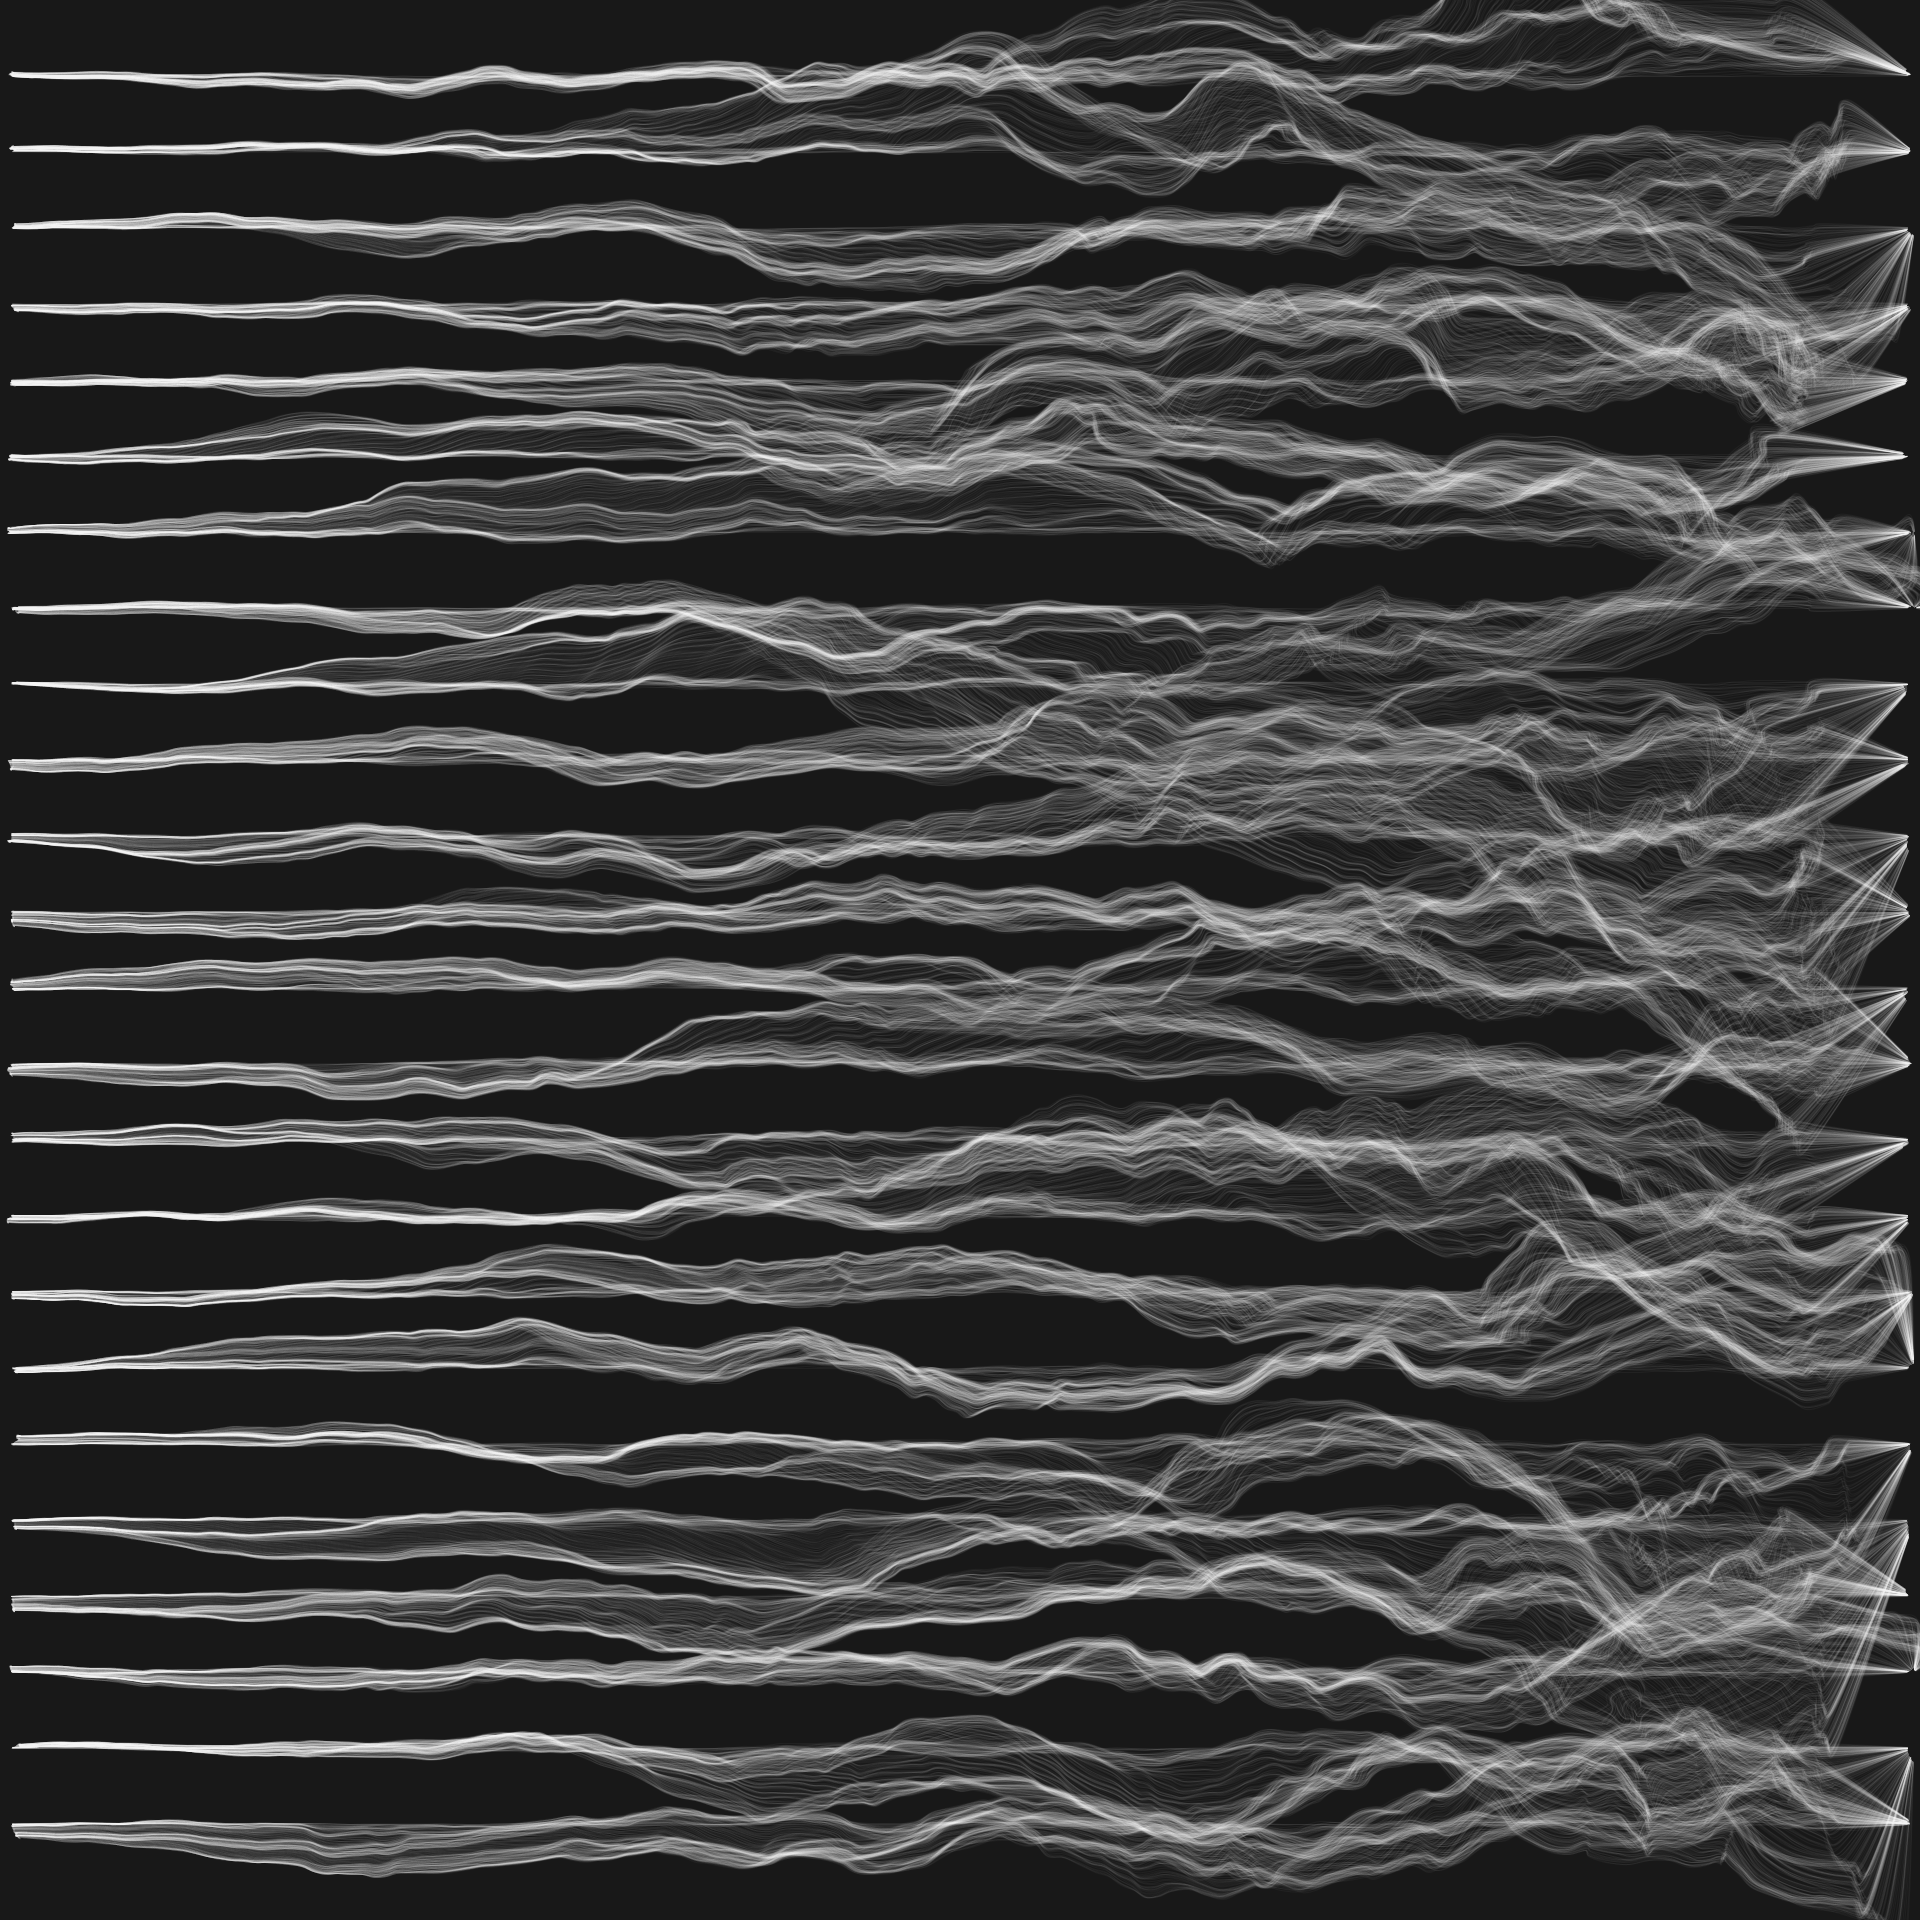
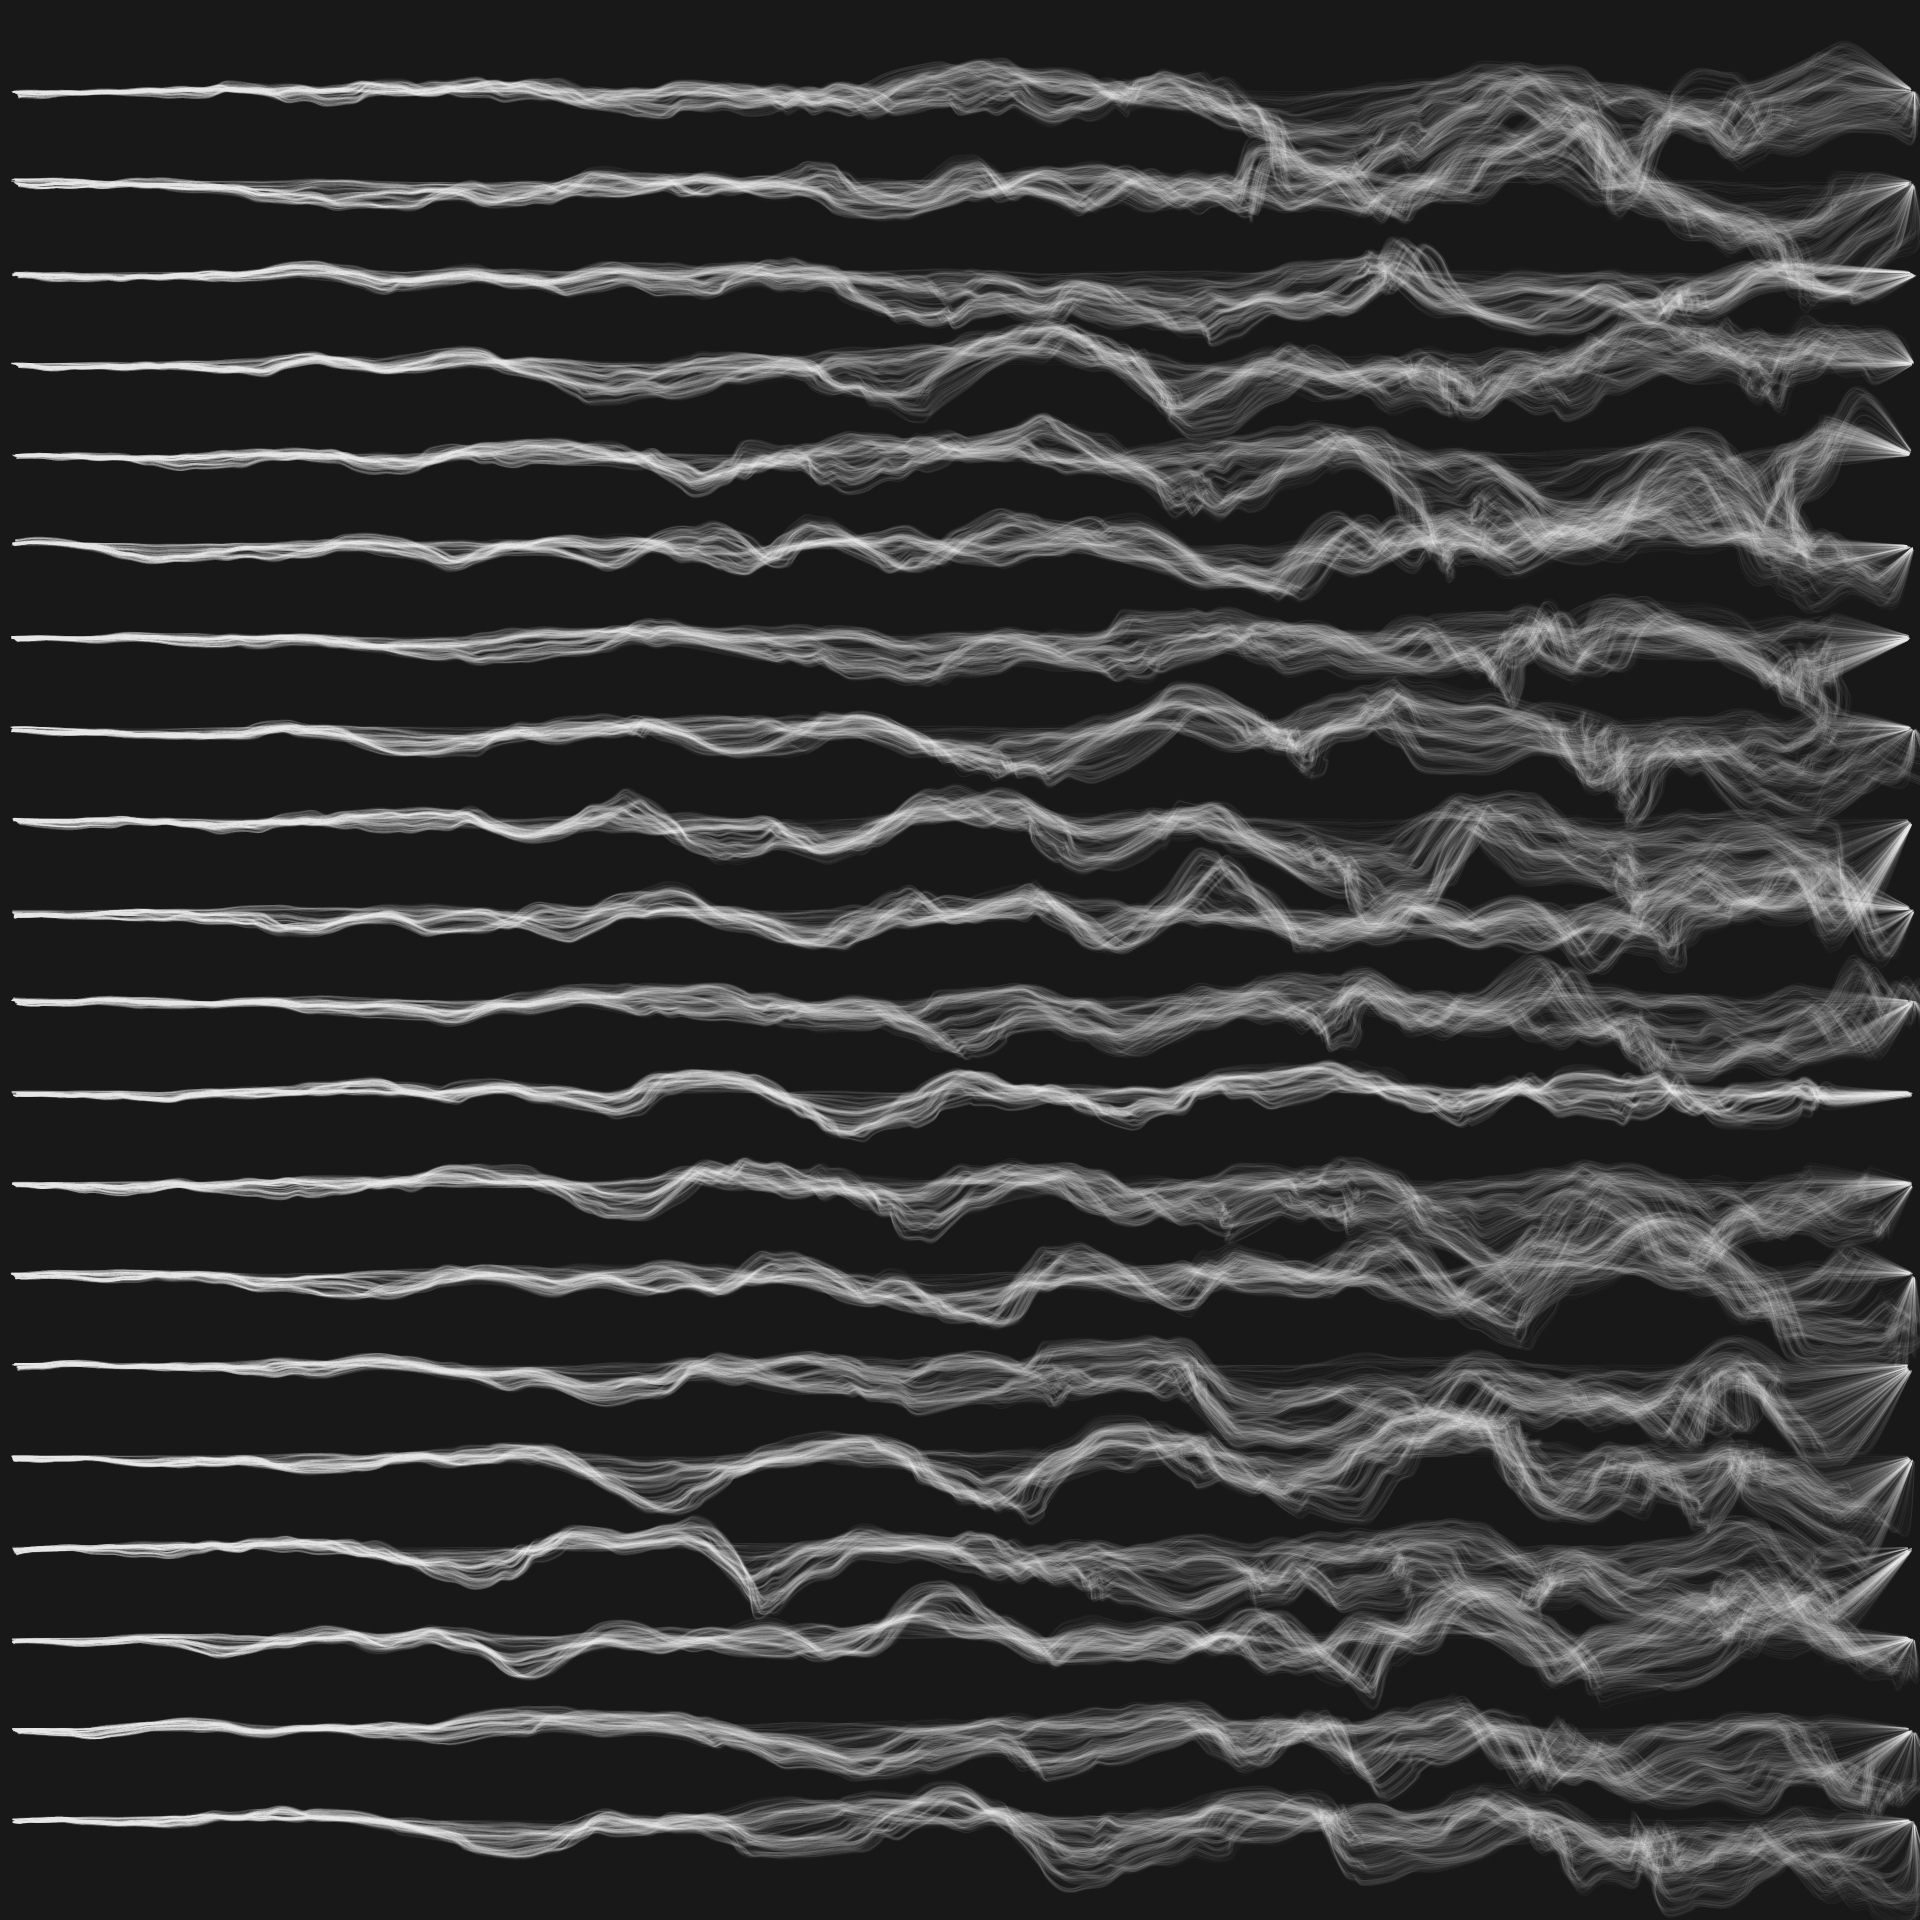
remove border

diff --git a/projectGallery.js b/projectGallery.js
@@ -38,8 +38,8 @@ function mouseWheel(event) {
 }
 
 function preload() {
-  img_1 = loadImage("./images/sketches/cluster1.png");
-  img_2 = loadImage("./images/sketches/cluster2.png");
+  img_1 = loadImage("./images/sketches/cluster1.jpg");
+  img_2 = loadImage("./images/sketches/cluster2.jpg");
   img_3 = loadImage("./images/sketches/particleConnect.jpg");
   img_4 = loadImage("./images/sketches/particleConnect1.jpg");
   img_5 = loadImage("./images/sketches/randomGrid.jpg");
@@ -72,14 +72,14 @@ function setup() {
 function draw() {
   background(24, 24, 24);
   translate(windowWidth / 2, windowHeight / 2);
-  fill(255, 255, 244);
-  stroke(255, 255, 244);
-  rect(
-    -20 - imageWidth / 2,
-    -20 - imageHeight / 2,
-    imageWidth + 40,
-    imageHeight + 40
-  );
+  // fill(255, 255, 244);
+  // stroke(255, 255, 244);
+  // rect(
+  //   -20 - imageWidth / 2,
+  //   -20 - imageHeight / 2,
+  //   imageWidth + 40,
+  //   imageHeight + 40
+  // );
   image(
     images[selector],
     0 - imageWidth / 2,

diff --git a/cluster.html b/cluster.html
@@ -29,8 +29,8 @@
     </h5>
 
     <div class="project-wrapper">
-      <img src="./images/sketches/cluster1.png" alt="" class="square" />
-      <img src="./images/sketches/cluster2.png" alt="" class="square" />
+      <img src="./images/sketches/cluster1.jpg" alt="" class="square" />
+      <img src="./images/sketches/cluster2.jpg" alt="" class="square" />
     </div>
   </body>
 </html>
